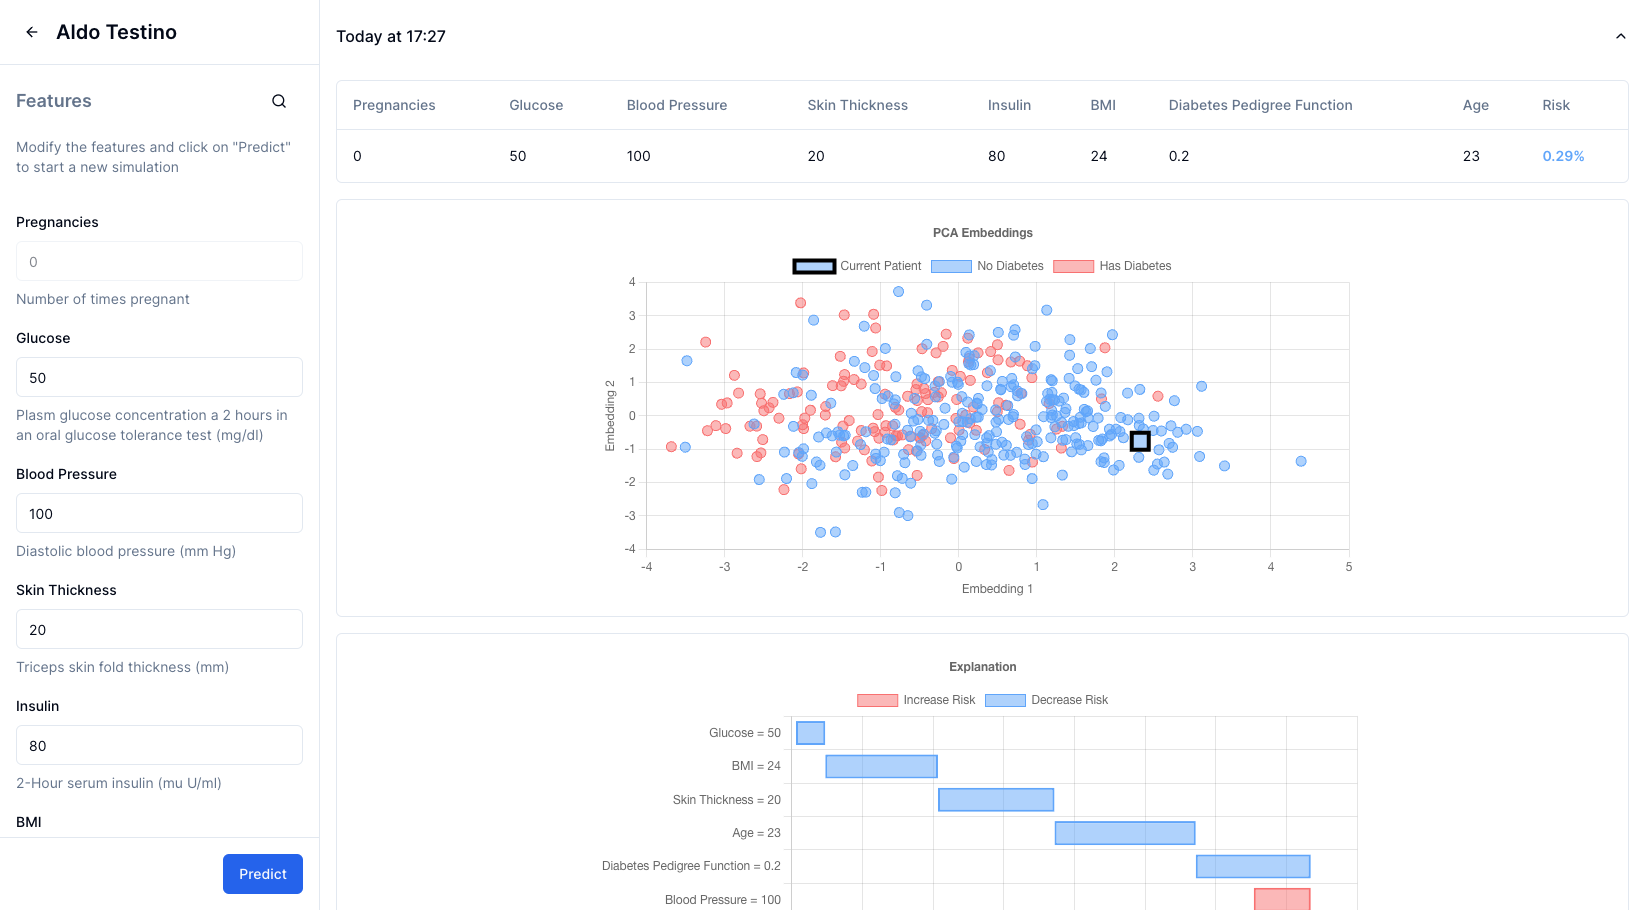
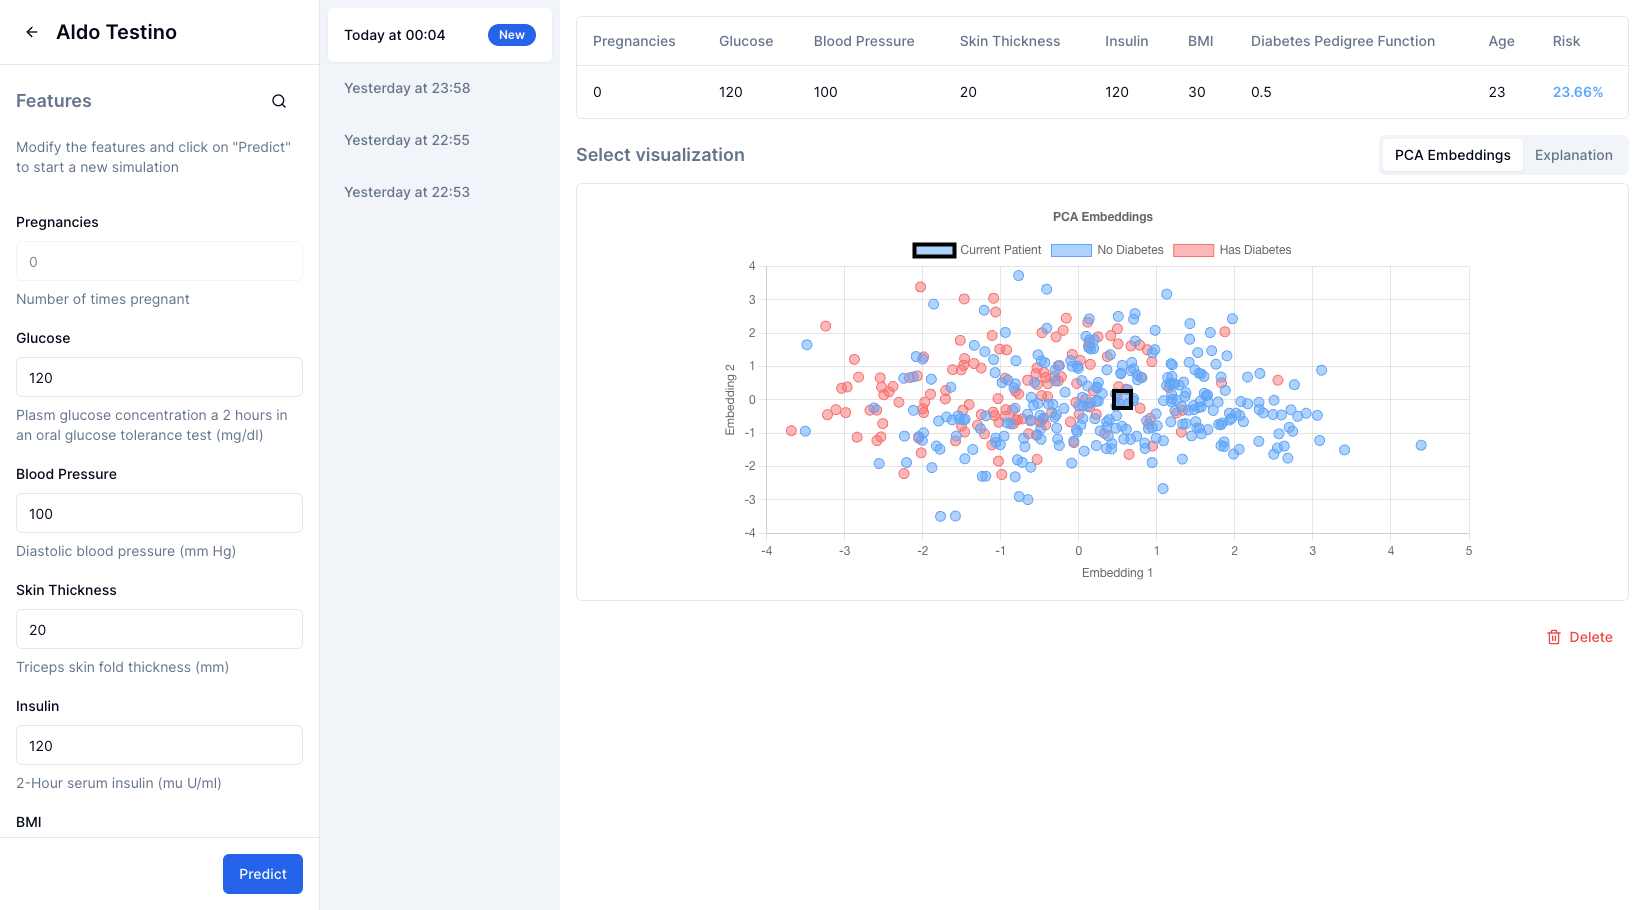
fix key problem on features table + new UI for list of predictions + update images

diff --git a/app/src/components/prediction.tsx b/app/src/components/prediction.tsx
@@ -3,14 +3,11 @@
 import { PatientPredictionWithData } from '@/lib/types';
 import React from 'react';
 import PatientFeaturesTable from './patient-features-table';
-import { AccordionContent, AccordionItem, AccordionTrigger } from './ui/accordion';
-import { formatDate } from '@/lib/utils';
 import Embedddings from './embeddings';
 import { BarElement, CategoryScale, Chart as ChartJS, LinearScale, Title, Tooltip, PointElement, Legend } from 'chart.js';
 import Shap from './shap';
 import DeletePredictionAlert from './delete-prediction-alert';
 import { Tabs, TabsContent, TabsList, TabsTrigger } from '@/components/ui/tabs';
-
 
 ChartJS.register(
   CategoryScale,
@@ -29,32 +26,27 @@ function Prediction({
 }) {
   
   return (
-    <AccordionItem value={prediction.id.toString()}>
-      <AccordionTrigger className='p-4'>{formatDate(prediction.createdAt)}</AccordionTrigger>
-      <AccordionContent className='p-4'>
-        <div className='space-y-4'>
-          <PatientFeaturesTable data={prediction.data} prediction={prediction.prediction} />
-          <Tabs defaultValue="embeddings">
-            <div className='flex justify-between w-full items-center'>
-              <p className='text-lg font-semibold text-muted-foreground'>Select visualization</p>
-              <TabsList>
-                <TabsTrigger value="embeddings">PCA Embeddings</TabsTrigger>
-                <TabsTrigger value="shap">Explanation</TabsTrigger>
-              </TabsList>
-            </div>
-            <TabsContent value="embeddings">
-              <Embedddings embeddings={prediction.embeddings} prediction={prediction.prediction} />
-            </TabsContent>
-            <TabsContent value="shap">
-              <Shap shapBaseValue={prediction.shapBaseValue} shapValues={prediction.shapValues} data={prediction.data} /> 
-            </TabsContent>
-          </Tabs>
-          <div className='text-right'>
-            <DeletePredictionAlert predictionId={prediction.id} />
-          </div>
+    <div className='space-y-4'>
+      <PatientFeaturesTable data={prediction.data} prediction={prediction.prediction} />
+      <Tabs defaultValue="embeddings">
+        <div className='flex justify-between w-full items-center'>
+          <p className='text-lg font-semibold text-muted-foreground'>Select visualization</p>
+          <TabsList>
+            <TabsTrigger value="embeddings">PCA Embeddings</TabsTrigger>
+            <TabsTrigger value="shap">Explanation</TabsTrigger>
+          </TabsList>
         </div>
-      </AccordionContent>
-    </AccordionItem>
+        <TabsContent value="embeddings">
+          <Embedddings embeddings={prediction.embeddings} prediction={prediction.prediction} />
+        </TabsContent>
+        <TabsContent value="shap">
+          <Shap shapBaseValue={prediction.shapBaseValue} shapValues={prediction.shapValues} data={prediction.data} /> 
+        </TabsContent>
+      </Tabs>
+      <div className='text-right'>
+        <DeletePredictionAlert predictionId={prediction.id} />
+      </div>
+    </div>
   );
 }
 

diff --git a/app/src/components/predictions-container.tsx b/app/src/components/predictions-container.tsx
@@ -1,13 +1,42 @@
+'use client';
+
 import { PatientPredictionWithData } from '@/lib/types';
 import { Inbox } from 'lucide-react';
 import Prediction from './prediction';
-import { Accordion } from '@/components/ui/accordion';
+import { formatDate } from '@/lib/utils';
+import { TabsList, TabsTrigger, Tabs, TabsContent } from './ui/tabs';
+import { useEffect, useMemo, useState } from 'react';
+import { Badge } from './ui/badge';
 
 function PredictionsContainer({ 
   predictions 
 }: {
   predictions: PatientPredictionWithData[]
 }) {
+
+  const [activeTab, setActiveTab] = useState(predictions[0]?.id.toString() || '0');
+
+  function handleTabChange(tabId: string) {
+    setActiveTab(tabId);
+  }
+
+  // if a prediction is removed or added, select the latest available
+  useEffect(() => {
+    if(predictions.length > 0) {
+      setActiveTab(predictions[0].id.toString());
+    }
+  }, [predictions]);
+
+  const latestPredictions = useMemo(() => {
+    const now = new Date();
+
+    return predictions.filter((prediction) => {
+      const predictionDate = new Date(prediction.createdAt);
+      const diff = now.getTime() - predictionDate.getTime();
+      return diff < 1000 * 60 * 5;
+    }).map((prediction) => prediction.id);
+  }, [predictions]);
+
   if(predictions.length === 0) {
     return (
       <main className="flex items-center justify-center flex-col text-muted-foreground gap-2">
@@ -18,13 +47,32 @@ function PredictionsContainer({
   }
 
   return (
-    <main className='overflow-y-scroll w-full py-2'>
-      <Accordion type="multiple" className="w-full">
+    <Tabs 
+      className='grid grid-cols-[auto,1fr] overflow-y-hidden' 
+      defaultValue={predictions[0]?.id.toString()} 
+      value={activeTab} 
+      onValueChange={handleTabChange} 
+      orientation='vertical'
+    >
+      <TabsList className='flex-col h-full justify-start rounded-none p-2 w-60 overflow-y-auto'>
         {predictions.map((prediction) => (
-          <Prediction key={prediction.id} prediction={prediction}/>
+          <TabsTrigger 
+            key={prediction.id} 
+            value={prediction.id.toString()} 
+            className='p-4 w-full justify-between items-center rounded-md'>
+            <p className='min-w-0 truncate'>{formatDate(prediction.createdAt)}</p>
+            {latestPredictions.includes(prediction.id) && (
+              <Badge>New</Badge>
+            )}
+          </TabsTrigger>
         ))}
-      </Accordion>
-    </main>
+      </TabsList>
+      {predictions.map((prediction) => (
+        <TabsContent key={prediction.id} value={prediction.id.toString()} className='p-4 m-0 overflow-x-hidden'>
+          <Prediction prediction={prediction} />
+        </TabsContent>  
+      ))}
+    </Tabs>
   );
 }
 

diff --git a/app/src/components/ui/badge.tsx b/app/src/components/ui/badge.tsx
@@ -1,0 +1,36 @@
+import * as React from "react"
+import { cva, type VariantProps } from "class-variance-authority"
+
+import { cn } from "@/lib/utils"
+
+const badgeVariants = cva(
+  "inline-flex items-center rounded-full border px-2.5 py-0.5 text-xs font-semibold transition-colors focus:outline-none focus:ring-2 focus:ring-ring focus:ring-offset-2",
+  {
+    variants: {
+      variant: {
+        default:
+          "border-transparent bg-primary text-primary-foreground hover:bg-primary/80",
+        secondary:
+          "border-transparent bg-secondary text-secondary-foreground hover:bg-secondary/80",
+        destructive:
+          "border-transparent bg-destructive text-destructive-foreground hover:bg-destructive/80",
+        outline: "text-foreground",
+      },
+    },
+    defaultVariants: {
+      variant: "default",
+    },
+  }
+)
+
+export interface BadgeProps
+  extends React.HTMLAttributes<HTMLDivElement>,
+    VariantProps<typeof badgeVariants> {}
+
+function Badge({ className, variant, ...props }: BadgeProps) {
+  return (
+    <div className={cn(badgeVariants({ variant }), className)} {...props} />
+  )
+}
+
+export { Badge, badgeVariants }

diff --git a/app/src/lib/utils.ts b/app/src/lib/utils.ts
@@ -164,15 +164,13 @@ export function formatDate(date: Date): string {
     return `${dayNames[date.getDay()]} at ${time}`;
   } else {
 
-    const dayName = dayNames[date.getDay()];
-
     const day = date.getDate();
     const month = date.toLocaleString('default', { month: 'long' });
     const year = date.getFullYear();
 
     if (isSameYear(date, today))
-      return `${dayName} ${day} ${month} at ${time}`;
+      return `${day}/${month} at ${time}`;
 
-    return `${dayName} ${day} ${month} ${year} at ${time}`;
+    return `${day}/${month}/${year} at ${time}`;
   }
 }

diff --git a/app/src/components/patient-features-table.tsx b/app/src/components/patient-features-table.tsx
@@ -24,8 +24,8 @@ function PatientFeaturesTable({
         </TableHeader>
         <TableBody>
           <TableRow>
-            {Object.values(data).map(value => (
-              <TableCell key={value}>{value}</TableCell>
+            {Object.entries(data).map(([key, value]) => (
+              <TableCell key={key}>{value}</TableCell>
             ))}
             <TableCell className={cn('font-semibold text-blue-400', prediction > 50 && 'text-red-400')}>{trunc(prediction, 2)}%</TableCell>
           </TableRow>

diff --git a/app/src/components/patient-features-form.tsx b/app/src/components/patient-features-form.tsx
@@ -92,6 +92,7 @@ function PatientFeaturesForm({
             <div className='relative h-full flex-1 flex items-center mr-6 p-4 pr-0'>
               <p className='text-lg font-semibold text-muted-foreground'>Features</p>
               <Input
+                disabled={!isSearching}
                 className={cn('absolute transition-transform duration-300', isSearching ? 'translate-x-0' : 'translate-x-60')}
                 value={searchTerm}
                 onChange={e => setSearchTerm(e.target.value)}

diff --git a/README.md b/README.md
@@ -14,8 +14,17 @@ The app will be available at: http://localhost:3000
 
 # Screenshots
 
-Home page                                           |Patient page
-:--------------------------------------------------:|:-----------------------------------------------------------:
-![Home page](/images/home.jpeg?raw=true "Home Page")|![Patient page](/images/patient.jpeg?raw=true "Patient Page")
+### Splash Screen
+![Splash Screen](/images/splash.jpeg?raw=true "Splash Screen")
+
+## Dashboard
+![Dashboard](/images/dashboard.jpeg?raw=true "Dashboard")
+
+## PCA Embeddings
+![PCA Embeddings    ](/images/pca.jpeg?raw=true "PCA Embeddings")
+
+## Sgap Values
+![Shap Values](/images/shap.jpeg?raw=true "Shap Values")
+
 
 
